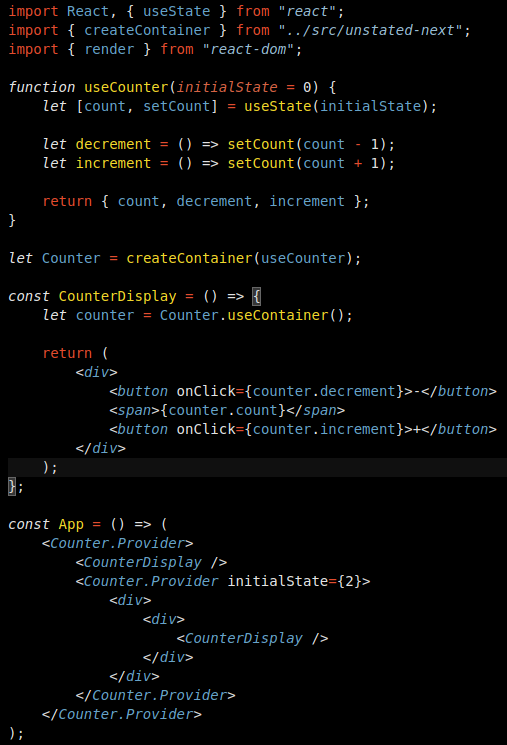
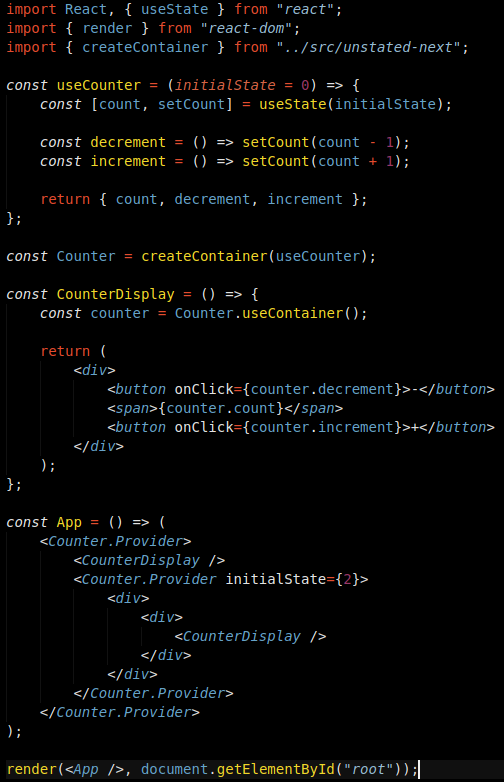
gray changes

diff --git a/snippets/counter.jsx b/snippets/counter.jsx
@@ -1,20 +1,20 @@
 import React, { useState } from "react";
-import { createContainer } from "../src/unstated-next";
 import { render } from "react-dom";
+import { createContainer } from "../src/unstated-next";
 
-function useCounter(initialState = 0) {
-    let [count, setCount] = useState(initialState);
+const useCounter = (initialState = 0) => {
+    const [count, setCount] = useState(initialState);
 
-    let decrement = () => setCount(count - 1);
-    let increment = () => setCount(count + 1);
+    const decrement = () => setCount(count - 1);
+    const increment = () => setCount(count + 1);
 
     return { count, decrement, increment };
-}
+};
 
-let Counter = createContainer(useCounter);
+const Counter = createContainer(useCounter);
 
 const CounterDisplay = () => {
-    let counter = Counter.useContainer();
+    const counter = Counter.useContainer();
 
     return (
         <div>

diff --git a/colors.ts b/colors.ts
@@ -28,10 +28,19 @@ enum Colors {
     ORANGE_DARK = "#d46345",
     ORANGE_LIGHT = "#d19078",
 
-    WHITE = "#e2e2e2",
+    WHITE = "#dddddd",
     BLACK = "#000000",
 
-    BACKGROUND = "#0f0f0f",
-    BACKGROUND_BRIGHTER = "#161616",
-    HOVER_BACKGROUND = "#2e2e2e",
+    GRAY_1 = "#111",
+    GRAY_2 = "#222",
+    GRAY_3 = "#333",
+    GRAY_4 = "#444",
+    GRAY_5 = "#555",
+    GRAY_6 = "#666",
+    GRAY_7 = "#777",
+    GRAY_8 = "#888",
+    GRAY_9 = "#999",
+    GRAY_10 = "#aaa",
+    GRAY_11 = "#bbb",
+    GRAY_12 = "#ccc",
 }

diff --git a/README.md b/README.md
@@ -1,22 +1,16 @@
 # Daily Coder
 
-A **blue-yellow** color theme for everyone who wants to work within a productive environment.
+A **blue yellow** color theme for everyone who wants to work within a productive environment.
 
 Inspired by [Ricardo Garces](https://twitter.com/artblogmunich?lang=en) "Blue and Yellow Woman"
 
 ![Ricardo Garces - Blue Yellow Woman](https://raw.githubusercontent.com/Sir-hennihau/daily-coder/master/images/ricardo-garces-blue-yellow-woman.jpg)
 
+Suited for people with red green color blindness (deuteranopia).
+
 # Previews
 
-![Component with full editor](https://raw.githubusercontent.com/Sir-hennihau/daily-coder/master/images/code-only.png)
-
-![Component with full editor](https://raw.githubusercontent.com/Sir-hennihau/daily-coder/master/images/component.png)
-
-![Library code 1](https://raw.githubusercontent.com/Sir-hennihau/daily-coder/master/images/express.png)
-
-![Library code 2](https://raw.githubusercontent.com/Sir-hennihau/daily-coder/master/images/python.png)
-
-![Java](https://raw.githubusercontent.com/Sir-hennihau/daily-coder/master/images/java.png)
+![Component](https://raw.githubusercontent.com/Sir-hennihau/daily-coder/master/images/code-only.png)
 
 ![Fullscreen](https://raw.githubusercontent.com/Sir-hennihau/daily-coder/master/images/fullscreen.png)
 
